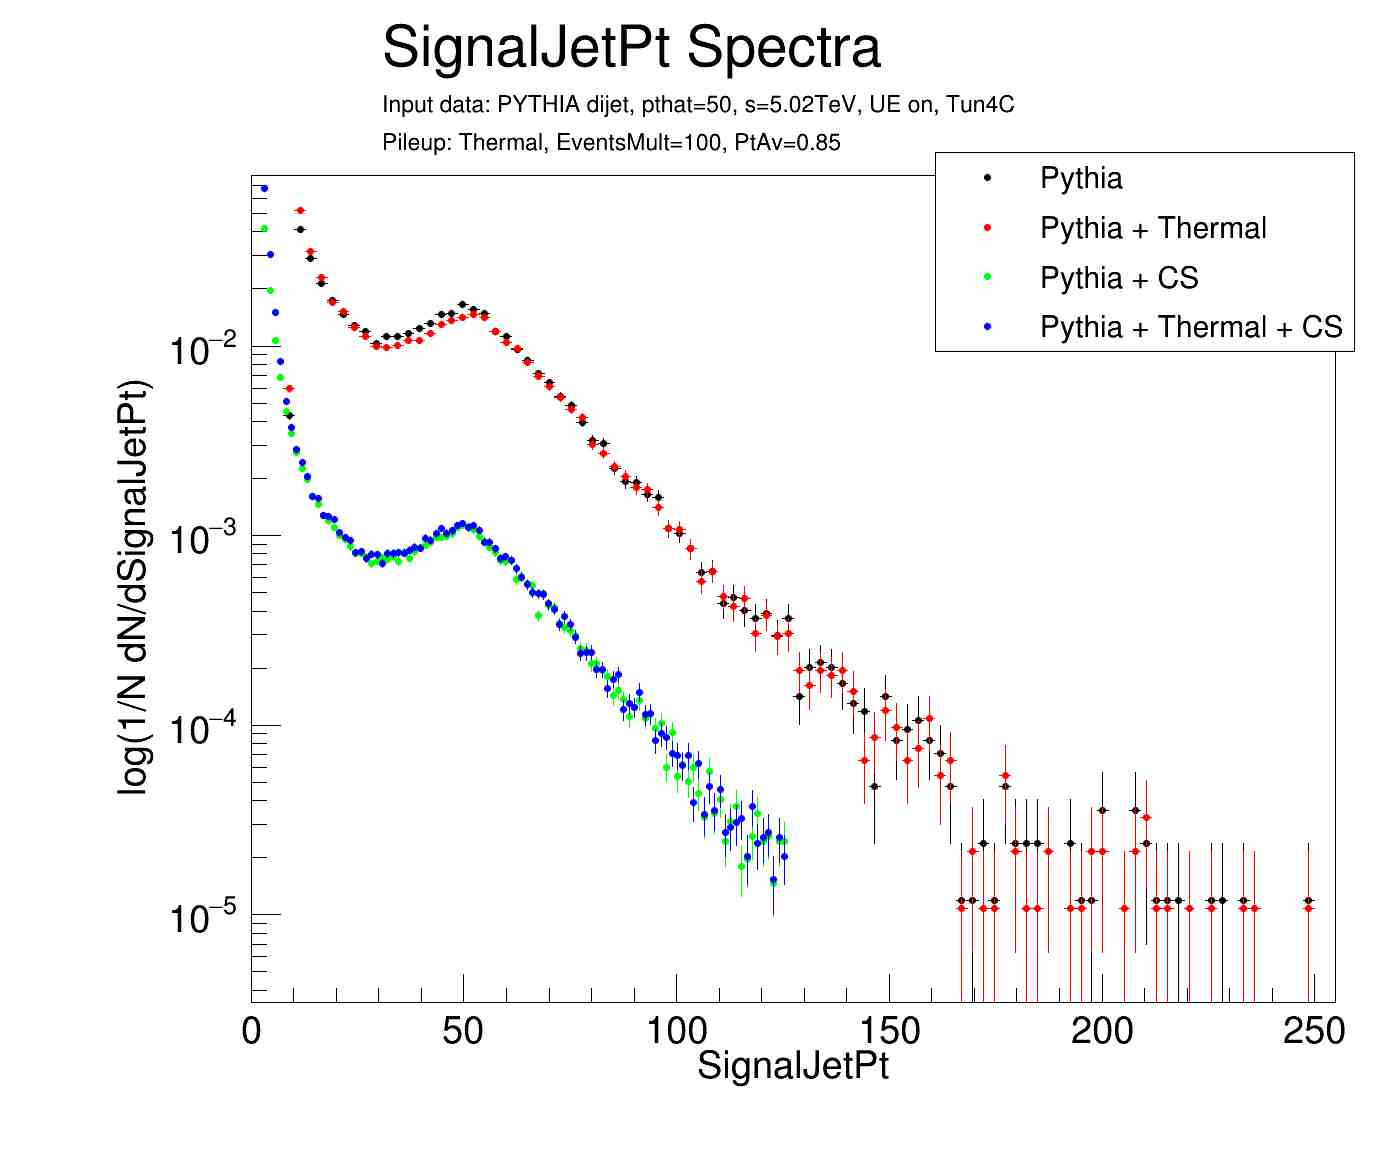
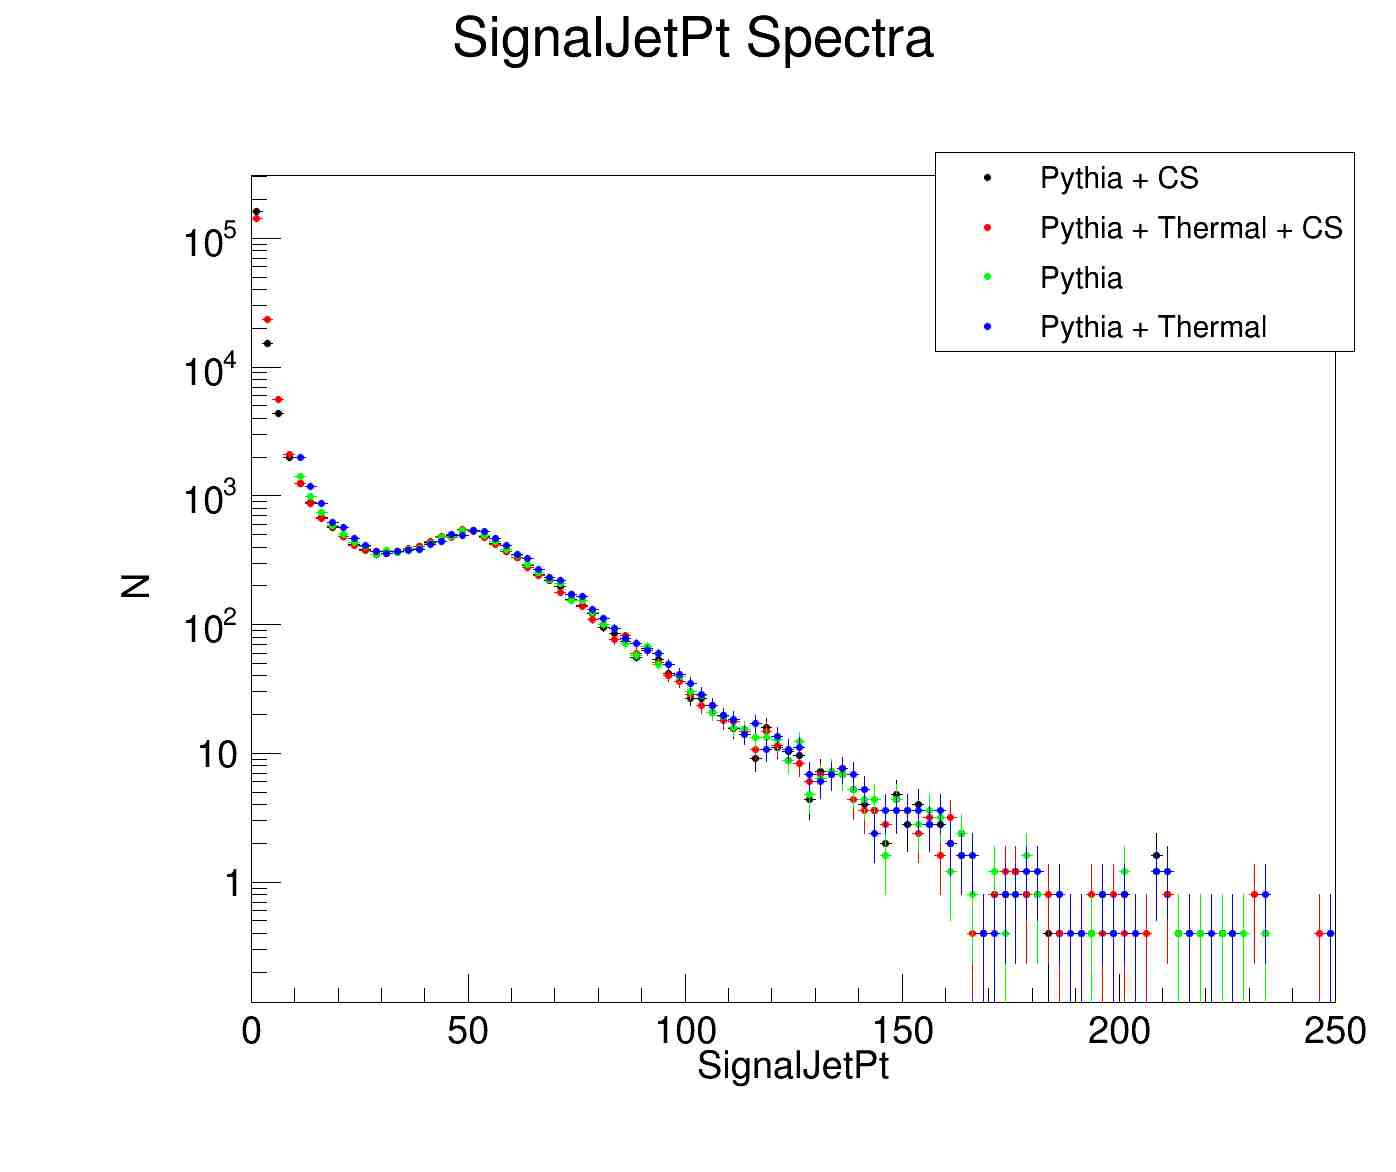
Some DEBUGGING

diff --git a/results/savehist.C b/results/savehist.C
@@ -5,8 +5,10 @@
 
 using namespace std;
 
-Double_t BIN_MIN = 250.;
-Double_t BIN_MAX = 0.;
+// Double_t BIN_MIN = 250.;
+// Double_t BIN_MAX = 0.;
+Double_t BIN_MAX = 250.;
+Double_t BIN_MIN = 0.;
 Double_t BIN_NUM = 100.;
 
 void savehist(TString outputfolder, TString branchLabel)
@@ -15,7 +17,9 @@ void savehist(TString outputfolder, TString branchLabel)
     TString PYTHIA_THERMAL_INPUT_DATA="/data/kying/lundPlaneResults/pythia_thermal_10000.root";
     TString PYTHIA_INPUT_CS_DATA="/data/kying/lundPlaneResults/pythia_cs_10000.root";
     TString PYTHIA_THERMAL_CS_INPUT_DATA="/data/kying/lundPlaneResults/pythia_thermal_cs_10000.root";
-    TString inputs[4] = {PYTHIA_INPUT_DATA, PYTHIA_THERMAL_INPUT_DATA, PYTHIA_INPUT_CS_DATA, PYTHIA_THERMAL_CS_INPUT_DATA};
+    // TString inputs[4] = {PYTHIA_INPUT_DATA, PYTHIA_THERMAL_INPUT_DATA, PYTHIA_INPUT_CS_DATA, PYTHIA_THERMAL_CS_INPUT_DATA};
+    TString inputs[4] = {PYTHIA_INPUT_CS_DATA, PYTHIA_THERMAL_CS_INPUT_DATA, PYTHIA_INPUT_DATA, PYTHIA_THERMAL_INPUT_DATA};
+    // TString inputs[1] = {PYTHIA_INPUT_CS_DATA};
 
     gStyle->SetTextSize(0.045);
     gStyle->SetTextFont(42);
@@ -33,6 +37,7 @@ void savehist(TString outputfolder, TString branchLabel)
     int colorIdx = 1;
     cout << "STARTING LOOP" << endl;
     for (TString inputdata:inputs) {
+        // TCanvas* c1 = new TCanvas("c1","",1400,1200);
         cout << "INPUT: " << inputdata << endl;
         // Open the input data file
         TFile* inf = new TFile(inputdata.Data());
@@ -41,8 +46,9 @@ void savehist(TString outputfolder, TString branchLabel)
         // Create a histogram and fill it with 'Dmass'
         TH1D* h = new TH1D("h", branchLabel + " Spectra",//+ " Spectra (PYTHIA dijet, pthat=50, s=5.02TeV, UE on, Tun4C) (Thermal background: EventsMult=100, PtAv=0.85)", 
                             BIN_NUM,BIN_MIN,BIN_MAX);
-        h->SetTitle(Form("#splitline{%s}{#scale[0.4]{%s}}",h->GetTitle(),"Input data: PYTHIA dijet, pthat=50, s=5.02TeV, UE on, Tun4C"));
-        h->SetTitle(Form("#splitline{%s}{#scale[0.4]{%s}}",h->GetTitle(),"Pileup: Thermal, EventsMult=100, PtAv=0.85"));
+        // h->SetTitle(Form("#splitline{%s}{#scale[0.4]{%s}}",h->GetTitle(),"Input data: PYTHIA dijet, pthat=50, s=5.02TeV, UE on, Tun4C"));
+        // h->SetTitle(Form("#splitline{%s}{#scale[0.4]{%s}}",h->GetTitle(),"Pileup: Thermal, EventsMult=100, PtAv=0.85"));
+        // jetTree->Project("h", branchLabel, Form("%s>17.49",branchLabel.Data()));
         jetTree->Project("h", branchLabel);
         cout << "GOT TREE" << endl;
 
@@ -51,20 +57,25 @@ void savehist(TString outputfolder, TString branchLabel)
         // TString label;
         // label = branchLabel.Contains("DR12") ? "DR12" : branchLabel.Contains("ZG") ? "ZG" : "Pt";
         h->GetXaxis()->SetTitle( branchLabel );
-        h->GetYaxis()->SetTitle( "log(1/N dN/d"+ branchLabel + ")" );
+        // h->GetYaxis()->SetTitle( "1/N dN/d"+ branchLabel );
+        h->GetYaxis()->SetTitle( "N" );
 
         // no scaling 3500
         // dN/dpT 1400
         // 1/N dN/dpT 0.045
         // this gives the 1/N dN/dpT scaling
         Double_t factor = 1.;
-        h->Scale(factor/h->Integral("width"));
+        // h->Scale(factor/h->Integral("width"));
 
         // when factor is 1, this is dN/dpT
         // can divide factor by total to get 1/N dN/dpT
         // confirmed that this is the same as the integral thing above
+        // Double_t total = h->GetEntries();
+        // cout << total << endl;
         // Double_t factor = 1./total;
-        // h->Scale(factor, "width");  // 1400
+        h->Scale(factor, "width");  // 1400
+
+
         h->GetXaxis()->CenterTitle();
         h->GetYaxis()->CenterTitle();
         // h->SetAxisRange(-1,h->GetMaximum()*1.5,"Y");
@@ -92,9 +103,12 @@ void savehist(TString outputfolder, TString branchLabel)
             legendText="Pythia + Thermal + CS";
         }
         legend->AddEntry(h, legendText, "p");
+        // c1->SaveAs("temp/" + branchLabel + legendText + ".jpg");
     }
     // cout << "DREW HIST" << endl;
+
     gPad->SetLogy();
+    // TODO: remove the removal of log
 
     legend->SetTextSize(0.028);
     legend->SetFillColor(0);

diff --git a/results/pythiaAnalysis.C b/results/pythiaAnalysis.C
@@ -35,7 +35,7 @@ void pythiaAnalysis::Loop()
 //    fChain->GetEntry(jentry);       //read all branches
 //by  b_branchname->GetEntry(ientry); //read only this branch
    TString name = "SignalJetPt";
-   TString type = "pythia_thermal";
+   TString type = "temp";
    TString xLabel = "pT";
    
    Double_t BIN_MIN = 1.;
@@ -44,12 +44,12 @@ void pythiaAnalysis::Loop()
 
 
    if (fChain == 0) return;
-   TFile * outputfile = new TFile("outputfiles/"+type+"/"+name+".root","recreate");
+   TFile * outputfile = new TFile("outputfiles/test.root","recreate");
    TH1D * h = new TH1D(name, name + " (" + type + ")", BIN_NUM, BIN_MIN, BIN_MAX);
    // TCanvas* c = new TCanvas("c","",600,600);
    h->Sumw2();
    h->GetXaxis()->SetTitle( xLabel );
-   h->GetYaxis()->SetTitle( "log(1/N dN/d"+ xLabel + ")" );
+   h->GetYaxis()->SetTitle( "1/N dN/d"+ xLabel );
 
    Long64_t nentries = fChain->GetEntriesFast();
 
@@ -71,8 +71,10 @@ void pythiaAnalysis::Loop()
    // dN/dpT 1400
    // 1/N dN/dpT 0.045
    // this gives the 1/N dN/dpT scaling
-   Double_t factor = 1.;
-   h->Scale(factor/h->Integral("width"));
+
+   //TODO: undo this
+   // Double_t factor = 1.;
+   // h->Scale(factor/h->Integral("width"));
 
    // h->Draw("H"); gPad->SetLogy();
    // c->SaveAs("plots/"+type+"/"+xLabel+".jpg");

diff --git a/results/pythiaAnalysis.h b/results/pythiaAnalysis.h
@@ -506,9 +506,9 @@ pythiaAnalysis::pythiaAnalysis(TTree *tree) : fChain(0)
 // if parameter tree is not specified (or zero), connect the file
 // used to generate this class and read the Tree.
    if (tree == 0) {
-      TFile *f = (TFile*)gROOT->GetListOfFiles()->FindObject("pythia_thermal_10000.root");
+      TFile *f = (TFile*)gROOT->GetListOfFiles()->FindObject("/data/kying/lundPlaneResults/pythia_cs_10000.root");
       if (!f || !f->IsOpen()) {
-         f = new TFile("pythia_thermal_10000.root");
+         f = new TFile("/data/kying/lundPlaneResults/pythia_cs_10000.root");
       }
       f->GetObject("JetTree",tree);
 
